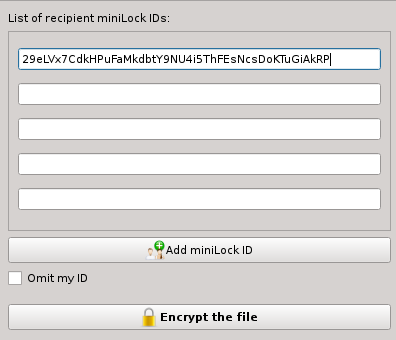
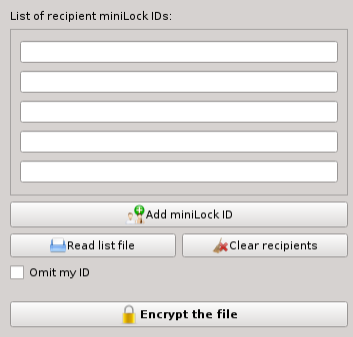
fixed several small issues
git-svn-id: https://svn.code.sf.net/p/m-lock/code@24 9508ecf8-7c9d-41a2-88ed-a53ae060acbd

diff --git a/src/gui/qt-widgets/mlock-gui/manual/manual_de_DE.html b/src/gui/qt-widgets/mlock-gui/manual/manual_de_DE.html
@@ -65,7 +65,7 @@ Wichtig hierbei ist, dass die Passphrase geheim bleibt - es werden nur die MiniL
 <p>
 Nach dem Start des Programms werden eine Mail-Adresse und ein Password abgefragt.
 Aus diesen Informationen wird ein Schl&uuml;sselpaar gebildet (privater und &ouml;ffentlicher Schl&uuml;ssel).
-Damit die verschl&uuml;sselte Datei wirksam gesch&uuml;tzt ist, muss die Passphrase aus mehreren zuf&auml;llig gew&auml;hlten W&ouml;rtern bestehen.<br>
+Damit die verschl&uuml;sselte Datei wirksam gesch&uuml;tzt ist, muss eine Passphrase mit weniger als 40 Zeichen aus mehreren zuf&auml;llig gew&auml;hlten W&ouml;rtern bestehen.<br>
 </p>
 
 <br><br>
@@ -82,7 +82,7 @@ Hier k&ouml;nnen auch Unicode-Zeichen eingegeben werden:
 Das Ampel-Icon zeigt folgende Information an:
 
 <ul>
-<li>rot: die Passphrase ist zu kurz oder enth&auml;lt zuwenig Leerzeichen</li>
+<li>rot: die Passphrase ist zu kurz oder enth&auml;lt zuwenig durch Leerzeichen getrennte W&ouml;rter</li>
 <li>gelb: die Passphrase wird wahrscheinlich vom Original MiniLock-Plugin f&uuml;r Chrome abgewiesen</li>
 <li>grün: die Passphrase ist ausreichend sicher</li>
 </ul>
@@ -105,6 +105,8 @@ Wenn eine miniLock-Datei ausgew&auml;hlt wurde, wird diese automatisch entschl&u
 
 <p>
 In der oberen Liste k&ouml;nnen bis zu 50 miniLock-IDs der Datei-Empf&auml;nger angegeben werden.<br>
+Mit &quot;Lese Liste aus Datei&quot; wird eine Textdatei eingelesen, die pro Zeile eine MiniLock-ID enth&auml;lt.<br>
+Der Button &quot;Empf&auml;nger l&ouml;schen&quot; entfernt die Empf&auml;nger-IDs aus der Liste.<br>
 Nach dem Klick auf &quot;Datei verschl&uuml;sseln&quot; wird die miniLock-Datei im vorher angegebenen Zielverzeichnis abgelegt.
 </p>
 
@@ -172,9 +174,9 @@ Die MiniLock-ID wird wie folgt erzeugt:</p>
 id := <a href="https://en.wikipedia.org/wiki/Base58" target="new">base58</a>( <a href="http://doc.libsodium.org/advanced/scalar_multiplication.html" target="new">crypto_scalarmult_base</a>(secret) + <a href="https://blake2.net" target="new">blake2</a>(secret) )
 </pre>
 <p>
-Der JSON-Dateiheader der MiniLock-Dateien enth&auml;lt die MiniLock-ID des Senders, die IDs der Empf&auml;nger sowie Schl&uuml;ssel und Hashwert der verschl&uuml;sselten Eingabedatei.<br>
-Diese Informationen werden separat mit jeder angegebenen Empf&auml;nger-ID als Public-Key mittels <a href="http://doc.libsodium.org/public-key_cryptography/authenticated_encryption.html" target="new">crypto_box_easy</a> verschl&uuml;sselt.<br>
-Die Eingabedatei wird mit <a href="http://doc.libsodium.org/secret-key_cryptography/authenticated_encryption.html" target="new">crypto_secretbox_easy</a> verschl&uuml;sselt. <br><br>
+Der JSON-Dateiheader der MiniLock-Dateien enth&auml;lt die MiniLock-ID des Senders, die IDs der Empf&auml;nger sowie Schl&uuml;ssel und Hashwert der verschl&uuml;sselten Eingabedatei.<br><br>
+Diese Informationen werden separat mit jeder angegebenen Empf&auml;nger-ID als Public-Key mittels <a href="http://doc.libsodium.org/public-key_cryptography/authenticated_encryption.html" target="new">crypto_box_easy</a>  verschl&uuml;sselt (Schl&uuml;sseltausch: Curve25519; Verfahren: XSalsa20 stream cipher; Authentifizierung: Poly1305 MAC).<br><br>
+Die Eingabedatei wird mit <a href="http://doc.libsodium.org/secret-key_cryptography/authenticated_encryption.html" target="new">crypto_secretbox_easy</a> verschl&uuml;sselt (Verfahren: XSalsa20 stream cipher; Authentifizierung: Poly1305 MAC). <br><br>
 Mehr Infos zu den kryptographischen Eigenschaften und dem Dateiformat: <a href="https://minilock.io">https://minilock.io</a>.
 </p>
 

diff --git a/src/gui/qt-widgets/mlock-gui/manual/manual_en_EN.html b/src/gui/qt-widgets/mlock-gui/manual/manual_en_EN.html
@@ -72,7 +72,7 @@ It is important to keep the passphrase secret - only the miniLock IDs (=public k
 <p>
 After the program starts it asks for your mail adress and passphrase.
 With this information a key pair is generated (private and public key).
-To achieve a secure encryption, the passphrase needs to consist of several random words.
+To achieve a secure encryption, a passphrase less than 40 characters needs to consist of several random words.
 </p>
 
 <br><br>
@@ -88,7 +88,7 @@ It is also possible to enter Unicode characters:</p>
 The signal icon gives you following information:
 
 <ul>
-<li>red: the passphrase is too short or contains not enough space characters</li>
+<li>red: the passphrase is too short or does not contain enough words (separated by spaces)</li>
 <li>yellow: the passphrase will most likely be refused by the original MiniLock-Plugin for Chrome</li>
 <li>green: the passphrase offers sufficient security</li>
 </ul>
@@ -111,6 +111,8 @@ If a minilock file was selected, it will be automatically decrypted. Any other f
 
 <p>
 Using the upper list you can define up to 50 miniLock IDs of your file recipients.<br>
+Using &quot;Read file list&quot; you can import a text file which contains one miniLock ID per line.<br>
+The button &quot;Clear recipients&quot; will delete the ID entries.<br>
 After clicking &quot;Encrypt the file&quot; the minilock file will be stored in the previously defined destination directory.
 </p>
 
@@ -176,9 +178,9 @@ The Minilock-ID is defined as:</p>
 id := <a href="https://en.wikipedia.org/wiki/Base58" target="new">base58</a>( <a href="http://doc.libsodium.org/advanced/scalar_multiplication.html" target="new">crypto_scalarmult_base</a>(secret) + <a href="https://blake2.net" target="new">blake2</a>(secret) )
 </pre>
 <p>
-The JSON header of a miniLock file contains the sender's miniLock ID, the recipient's IDs, file hash and key of the encrypted input file.<br>
-This information is encrypted separately with each given recipient ID as public key using <a href="http://doc.libsodium.org/public-key_cryptography/authenticated_encryption.html" target="new">crypto_box_easy</a>.<br>
-The input file is encrypted with <a href="http://doc.libsodium.org/secret-key_cryptography/authenticated_encryption.html" target="new">crypto_secretbox_easy</a><br><br>
+The JSON header of a miniLock file contains the sender's miniLock ID, the recipient's IDs, file hash and key of the encrypted input file.<br><br>
+This information is encrypted separately with each given recipient ID as public key using <a href="http://doc.libsodium.org/public-key_cryptography/authenticated_encryption.html" target="new">crypto_box_easy</a> (key exchange: Curve25519; encryption: XSalsa20 stream cipher; authentication: Poly1305 MAC).<br><br>
+The input file is encrypted with <a href="http://doc.libsodium.org/secret-key_cryptography/authenticated_encryption.html" target="new">crypto_secretbox_easy</a> (encryption: XSalsa20 stream cipher; authentication: Poly1305 MAC).<br><br>
 Read more about the cryptographic details and the file format: <a href="https://minilock.io">https://minilock.io</a>.
 </p>
 

diff --git a/src/gui/qt-widgets/mlock-gui/mlockmainwindow.cpp b/src/gui/qt-widgets/mlock-gui/mlockmainwindow.cpp
@@ -22,6 +22,7 @@ along with this program.  If not, see <http://www.gnu.org/licenses/>.
 #include <QFileDialog>
 #include <QPixmap>
 #include <QDesktopWidget>
+#include <QDesktopServices>
 
 #include <QFileInfo>
 
@@ -70,10 +71,13 @@ MlockMainWindow::MlockMainWindow(QWidget *parent) :
 
     this->setGeometry( QStyle::alignedRect(Qt::LeftToRight,Qt::AlignCenter, this->size(),
                                            qApp->desktop()->availableGeometry() ));
+
+    startedWithFilArg  = false;
 }
 
 void MlockMainWindow::setInitialInputFile(QString file){
     inputFilename = file;
+    startedWithFilArg=true;
     statusBar()->showMessage(tr("Input file %1").arg(inputFilename));
 }
 
@@ -82,12 +86,28 @@ void MlockMainWindow::on_txtPassPhrase_textChanged(){
 
     ui->lblSecIcon->setEnabled(!pp.isEmpty());
 
-    QString secLevel = (pp.length() < 25 || pp.count(QLatin1Char(' ')) < 3) ? "low": (pp.length()<40)? "medium":"high";
+    if (pp.length() < 20){
+        ui->lblSecIcon->setPixmap(QPixmap (":/Status-security-low-icon.png"));
+        ui->btnUnlock->setEnabled(false);
+        return;
+    }
+    if (pp.length() > 40){
+        ui->lblSecIcon->setPixmap(QPixmap (":/Status-security-high-icon.png"));
+        ui->btnUnlock->setEnabled(!ui->txtMail->text().isEmpty() );
+        return;
+    }
 
-    ui->lblSecIcon->setPixmap(QPixmap (":/Status-security-"+secLevel+"-icon.png"));
+    ui->lblSecIcon->setPixmap(QPixmap (":/Status-security-medium-icon.png"));
+
+    pp=pp.trimmed();
+    int wordCount=0;
+    for (int i=1;i<pp.length();i++){
+        if (pp[i]==' ' && pp[i-1]!=' ')
+            wordCount++;
+    }
 
     ui->btnUnlock->setEnabled(!ui->txtMail->text().isEmpty()
-                              && pp.length()>= 25 && pp.count(QLatin1Char(' ')) > 3 );
+                              && wordCount> 3 );
 }
 
 void MlockMainWindow::on_btnUnlock_clicked(){
@@ -232,6 +252,7 @@ void MlockMainWindow::handleResults(int result){
                                          tr("Decrypted"): tr("Encrypted")).arg(inputFilename).arg(timer.elapsed()/1000));
         QPixmap actionPix(":/Actions-dialog-ok-apply-icon.png");
         ui->lblCurrentAction->setPixmap(actionPix);
+        ui->btnSelInputFile->setEnabled(true); //if mlock-gui was called with file arg...
     } else {
         QPixmap actionPix(":/Actions-process-stop-icon.png");
         ui->lblCurrentAction->setPixmap(actionPix);
@@ -241,9 +262,11 @@ void MlockMainWindow::handleResults(int result){
         case err_failed:
             QMessageBox::critical(this, tr("Error") , tr("Unknown error."));
             break;
+
         case err_open:
             QMessageBox::critical(this, tr("Error") , tr("Could not decrypt the file."));
             break;
+
         case err_box:
             QMessageBox::critical(this, tr("Error") , tr("Could not encrypt the file."));
             break;
@@ -274,6 +297,14 @@ void MlockMainWindow::handleResults(int result){
 
         case err_not_allowed:
             QMessageBox::critical(this, tr("Error") , tr("You are not allowed to decrypt the file."));
+            break;
+
+        case err_file_empty:
+            QMessageBox::critical(this, tr("Error") , tr("Empty input file."));
+            break;
+
+        case err_file_exists:
+            QMessageBox::critical(this, tr("Error") , tr("Output file exists:\n%1").arg(QString((const char *)out_opts.c_final_out_name)).toLocal8Bit());
             break;
 
         default:
@@ -315,8 +346,9 @@ void MlockMainWindow::on_btnSelectDestDir_clicked()
               ui->txtDestDir->text().toLocal8Bit().data(),
               sizeof out_opts.c_override_out_name-1);
 
-      if (!inputFilename.isEmpty()) {
+      if (startedWithFilArg && !inputFilename.isEmpty()) {
           startFileProcessing(inputFilename.endsWith("minilock"));
+          startedWithFilArg=false;
         } else {
           ui->btnSelInputFile->setEnabled(true);
       }
@@ -414,6 +446,44 @@ void MlockMainWindow::on_action_Manual_triggered(){
          dialog.setHTMLSource(":/manual/manual_en_EN.html");
 
      dialog.exec();
+}
+
+void MlockMainWindow::on_btnClearRecipients_clicked()
+{
+    QLineEdit *leCurrentId;
+    for (int i=0; i<scrollAreaLayout->count(); i++){
+        leCurrentId = dynamic_cast<QLineEdit*>(scrollAreaLayout->itemAt(i)->widget());
+        leCurrentId->setText("");
+    }
+}
+
+void MlockMainWindow::on_btnOpenFileList_clicked()
+{
+    QString listFilename = QFileDialog::getOpenFileName(this, tr("Select the input file"), "", "*.*");
+
+    if (!listFilename.isEmpty()){
+        QFile f(listFilename);
+
+        if (f.open(QIODevice::ReadOnly))
+        {
+            on_btnClearRecipients_clicked();
+
+            QString data = f.readAll();
+            QStringList vals = data.split('\n');
+            QLineEdit *leCurrentId;
+            for (int i=0;i<vals.count() && i< 50;i++){
+
+                if (i> scrollAreaLayout->count()-1){
+                    QLineEdit* le =  new QLineEdit();
+                    scrollAreaLayout->addWidget(le);
+                }
+                leCurrentId = dynamic_cast<QLineEdit*>(scrollAreaLayout->itemAt(i)->widget());
+                leCurrentId->setText(vals[i].trimmed());
+            }
+
+            f.close();
+        }
+    }
 }
 
 void MlockMainWindow::dragEnterEvent(QDragEnterEvent *event)

diff --git a/src/minilock.c b/src/minilock.c
@@ -120,6 +120,12 @@ error_code decode_file(FILE* input_file, off_t crypt_block_start, off_t eof_pos,
                 snprintf((char*)out_opts->c_final_out_name,  sizeof out_opts->c_final_out_name-1, "%s", b_decrypt_block);
             }
 
+            if (!access((const char *)out_opts->c_final_out_name, F_OK)){
+                exit_loop=1;
+                ret_val = err_file_exists;
+                goto free_encode_write_file_error;
+            }
+
             if (!out_opts->silent_mode)
                 printf("Writing to file %s...\n", out_opts->c_final_out_name);
             
@@ -172,6 +178,10 @@ error_code encode_file(FILE* output_file, uint8_t* b_file_nonce_prefix, uint8_t*
     eof_pos   = ftello(input_file);
     fseeko(input_file, 0, SEEK_SET);
     
+    if (!eof_pos){
+     return err_file_empty;
+    }
+    
     unsigned char b_file_nonce[KEY_LEN - 8]= {0};
     memcpy(b_file_nonce, b_file_nonce_prefix, NONCE_PREFIX_LEN);
 
@@ -210,8 +220,9 @@ error_code encode_file(FILE* output_file, uint8_t* b_file_nonce_prefix, uint8_t*
             ret_val = err_ok;
         }
         
-        current_pos += num_read;
-
+        current_pos += num_read;	
+//	printf("eof_pos %zd\n", eof_pos);
+	
         out_opts->crypto_progress = current_pos*1.0 / eof_pos * 100;
         if (!out_opts->silent_mode) {
             printf("\rProgress %3.0f%%", out_opts->crypto_progress);
@@ -265,7 +276,7 @@ error_code minilock_encode(uint8_t* c_filename, uint8_t* c_sender_id, uint8_t* b
     if(output_file == NULL) {
         return err_file_write;
     }
-
+    
     //Reserve 4 bytes for the JSON header length
     uint8_t b_header[12] = {'m','i','n','i','L','o','c','k', 0, 0, 0, 0};
     fwrite(b_header, 1, sizeof b_header, output_file);
@@ -419,6 +430,11 @@ free_encode_res:
     free (c_file_nonce);
     free (c_file_hash);
     fclose(output_file);
+    
+    if (ret_val){
+      remove((char*)out_opts->c_final_out_name);
+    }
+    
     return ret_val;
 }
 

diff --git a/src/mlock.c b/src/mlock.c
@@ -99,12 +99,12 @@ int check_password(const char *c_passphrase){
 
   size_t len  = strlen(c_passphrase);
   
-  if (len<25) return 0;
-  
+  if (len<20) return 0;
+  if (len>40) return 1;
   
   const char * s  = c_passphrase;
   uint8_t i;
-  for (i=0; s[i]; s[i]==' ' ? i++ : *s++);
+  for (i=1; s[i]; s[i]==' ' && s[i-1]!=' ' ? i++ : *s++);
   return i > 3;
 }
 
@@ -272,7 +272,7 @@ int main(int argc, char **argv) {
     #endif
     
     if (!check_password( (const char*) c_user_passphrase)){
-        fprintf(stderr, "ERROR: the passphrase must consist of several random words\n");
+        fprintf(stderr, "ERROR: the passphrase must consist of several random words, separated by spaces\n");
         goto main_exit_on_failure;
     }
     
@@ -356,7 +356,7 @@ int main(int argc, char **argv) {
 	     fprintf(stderr, "ERROR: could not decrypt data\n");
 	      break;
 	    case err_box:
-	      fprintf(stderr, "ERROR: could not crypt data\n");
+	      fprintf(stderr, "ERROR: could not encrypt data\n");
 	      break;
 	    case err_hash:
 	      fprintf(stderr, "ERROR: could not hash data\n");
@@ -364,6 +364,12 @@ int main(int argc, char **argv) {
 	    case err_not_allowed:
 	      fprintf(stderr, "ERROR: not allowed to decrypt\n");
 	      break;
+	    case err_file_empty:
+	      fprintf(stderr, "ERROR: empty input file %s\n", c_input_file);
+	      break;
+	    case err_file_exists:
+		fprintf(stderr, "ERROR: output file exists %s\n", out_opts.c_final_out_name);
+		break;
 	  }
 	}
         printf("Task completed.\n");

diff --git a/src/minilock.h b/src/minilock.h
@@ -1,14 +1,14 @@
 #ifndef _MINILOCK_H
 #define _MINILOCK_H
 
-#define MLOCK_VERSION "0.8.1"
+#define MLOCK_VERSION "0.9"
 
 // for ftelloo: off_t
 #define _FILE_OFFSET_BITS 64
 
 #include "utils.h"
 
-enum error_code { err_ok, err_failed, err_open, err_box,  err_file_open, err_file_read, err_file_write, err_hash, err_format, err_no_rcpt,err_not_allowed};
+enum error_code { err_ok, err_failed, err_open, err_box,  err_file_open, err_file_read, err_file_write, err_hash, err_format, err_no_rcpt, err_not_allowed, err_file_empty, err_file_exists};
 typedef enum error_code error_code;
 
 

diff --git a/src/gui/qt-widgets/mlock-gui/mlockmainwindow.h b/src/gui/qt-widgets/mlock-gui/mlockmainwindow.h
@@ -46,6 +46,8 @@ public:
 private:
     Ui::MlockMainWindow *ui;
 
+    bool startedWithFilArg;
+
     void dropEvent(QDropEvent* event);
     void dragEnterEvent(QDragEnterEvent *event);
 
@@ -76,6 +78,8 @@ private slots:
     void on_txtMail_textChanged();
     void on_actionAbout_mlock_triggered();
     void on_action_Manual_triggered();
+    void on_btnClearRecipients_clicked();
+    void on_btnOpenFileList_clicked();
 
   public slots:
     void handleResults(int);
